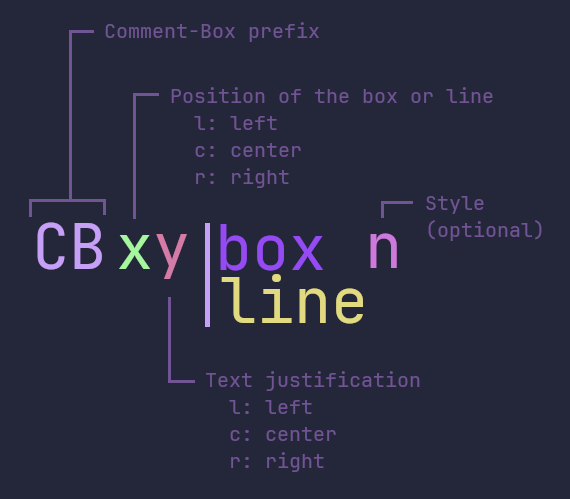
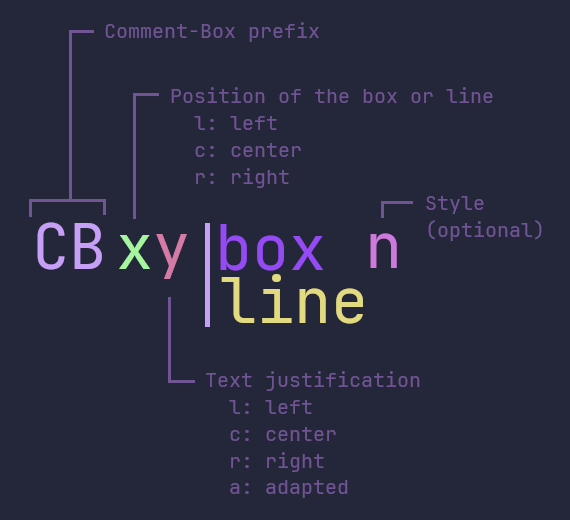
update(README + doc): clarify nomenclature explanation and img in 'Quick Start'

diff --git a/README.md b/README.md
@@ -116,13 +116,13 @@ If you want more control, the nomenclature for the commands is fairly simple:
 where:
 - `CB` is for "Comment-Box"
 - `x` is for the position of the box or line (`l`: left, `c`: center, `r`: right)
-- `y` is for the text justification (`l`: left, `c`: center, `r`: right)
+- `y` is for the text justification (`l`: left, `c`: center, `r`: right). For the box, it can be `a` ("adapted"): the size of the box will be adapted to the size of the text (up to `box_width`)
+
 - `box|line` to choose if it applies to a box or a line
 - `[num]` is optional an apply a style from the catalog
 
-Exceptions:
-- Adapted boxes: `x` is the position of a box and `y` is `a` for 'adapted' (the box will take the size of the text, up to `box_size`).
-- Simple Lines: no `x`. `y` is the position of the line if not left.
+Exception:
+- Simple Lines: no `y`. `x` is the position of the line (`l`: left, `c`: center, `r`: right).
 
 See the rest of this doc for more details.
 
